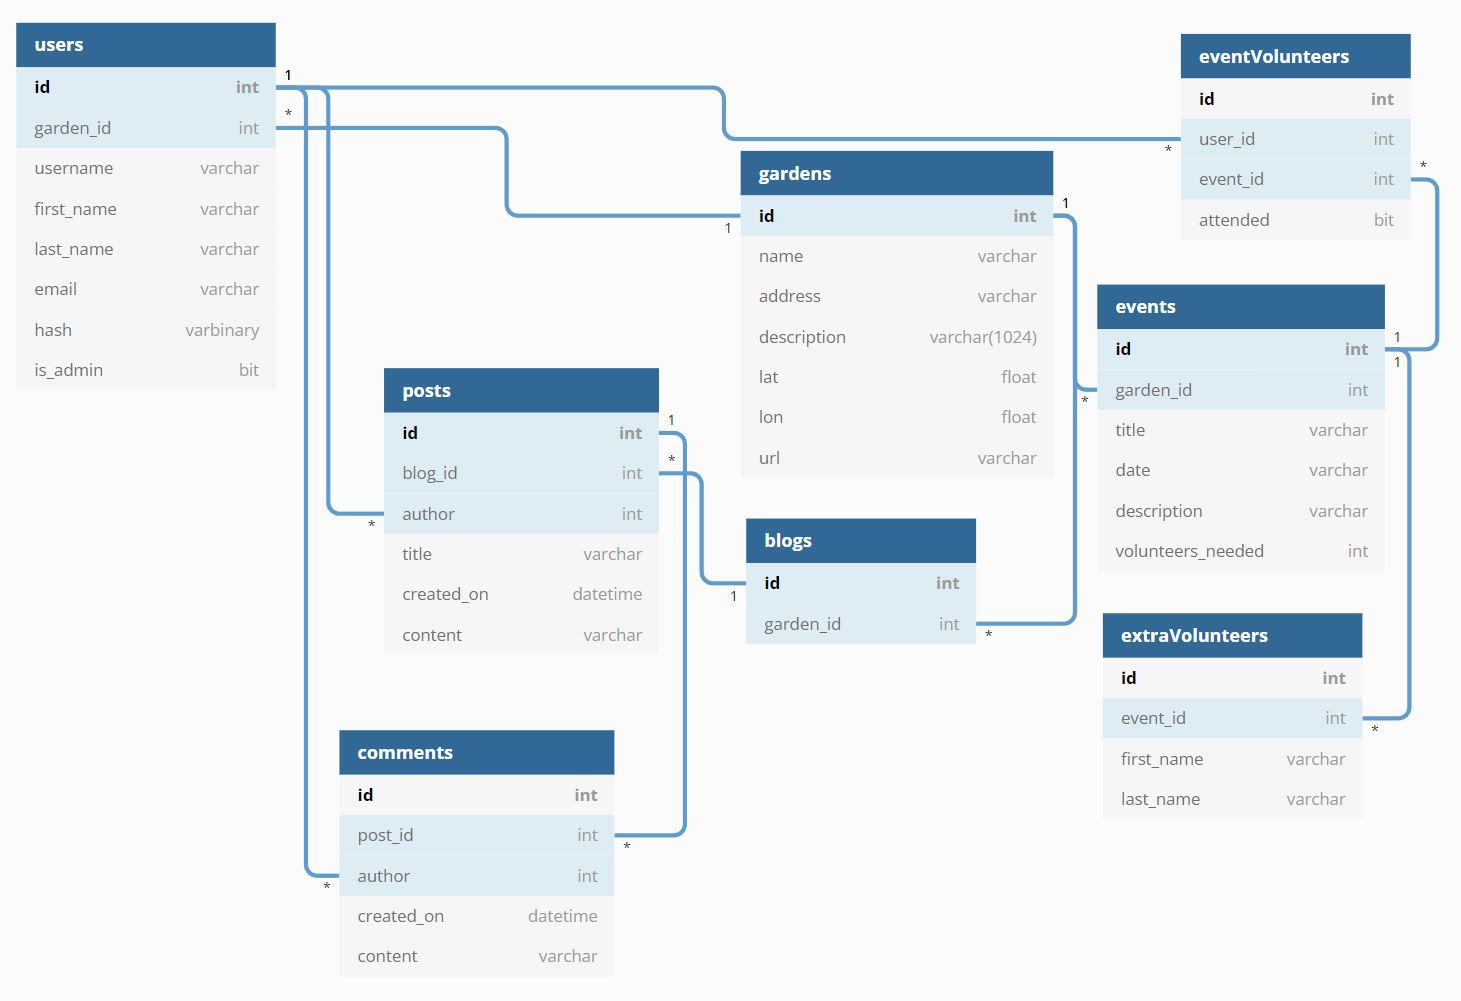
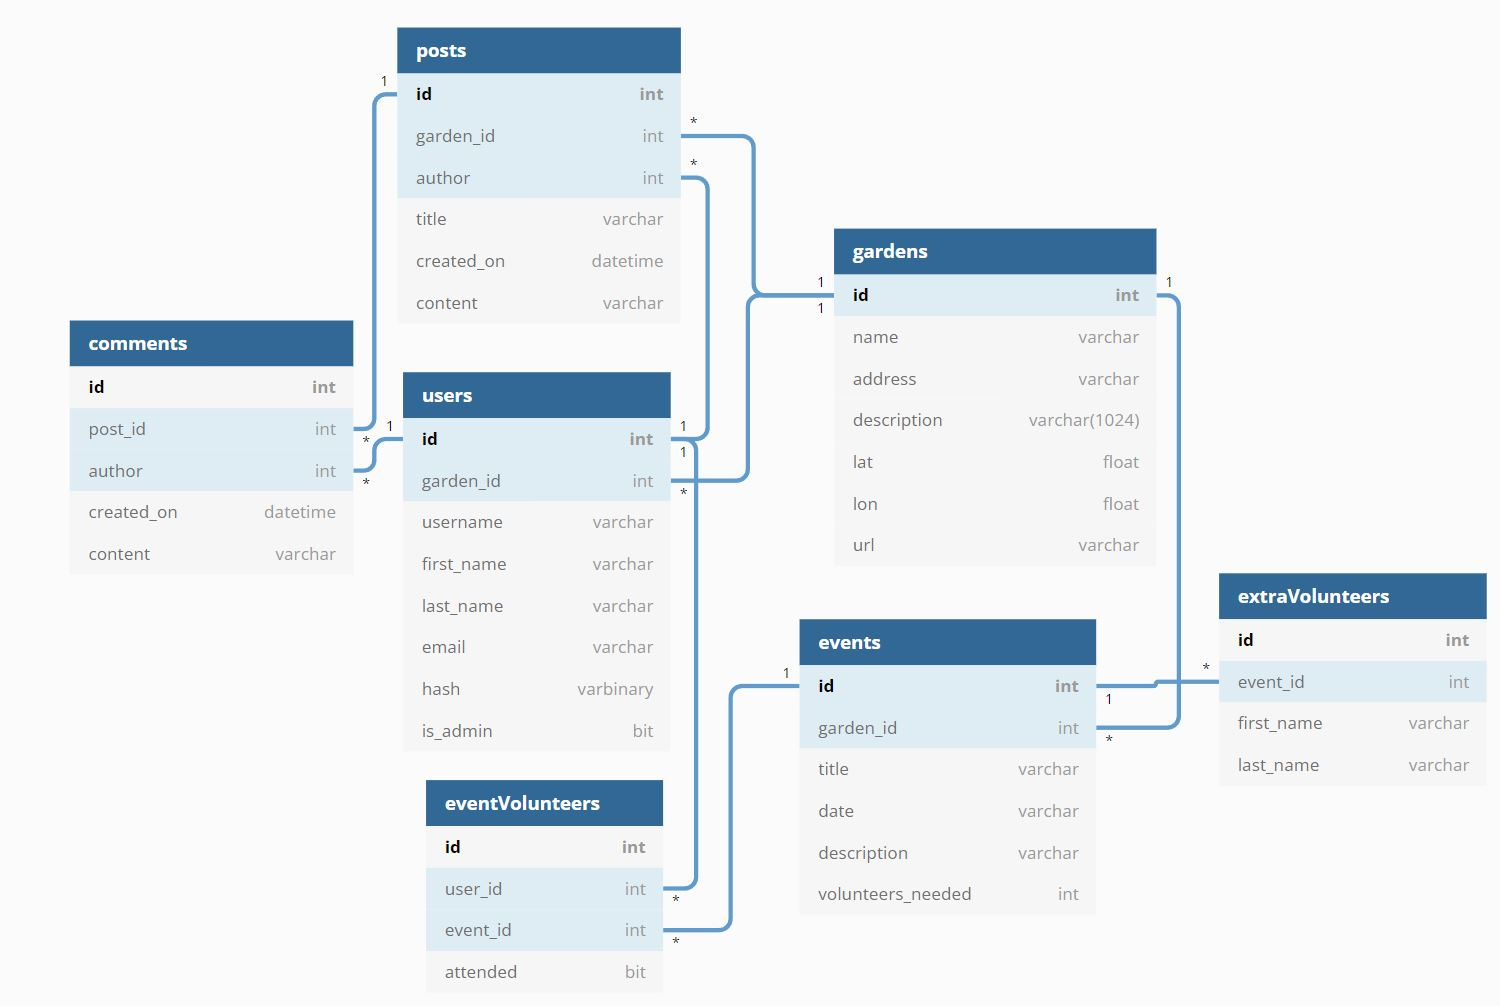
Delete the blogs table and refine db to just two additional tables for blog implementation

diff --git a/server/db/migrations/20211129010809_posts.js b/server/db/migrations/20211129010809_posts.js
@@ -1,7 +1,7 @@
 exports.up = function (knex) {
   return knex.schema.createTable('posts', table => {
     table.increments('id').primary()
-    table.integer('blog_id').references('blogs.id')
+    table.integer('garden_id').references('gardens.id')
     table.integer('author').references('users.id')
     table.string('title')
     table.datetime('created_on')

diff --git a/server/db/README.md b/server/db/README.md
@@ -6,7 +6,7 @@
 
 Updated code for ERD:
 ```
-// Creating tables
+ // Creating tables
 Table users  {
   id int [pk, increment] // auto-increment
   garden_id int
@@ -28,14 +28,9 @@ Table gardens {
   url varchar
 }
 
-Table blogs {
-  id int [pk]
-  garden_id int
-}
-
 Table posts {
   id int [pk]
-  blog_id int
+  garden_id int
   author int
   title varchar
   created_on datetime
@@ -78,11 +73,10 @@ Table extraVolunteers {
 // > many-to-one; < one-to-many; - one-to-one
 Ref: users.garden_id > gardens.id
 Ref: events.garden_id > gardens.id
-Ref: blogs.garden_id > gardens.id
 Ref: eventVolunteers.user_id > users.id
 Ref: eventVolunteers.event_id > events.id
 Ref: extraVolunteers.event_id > events.id
-Ref: posts.blog_id > blogs.id
+Ref: posts.garden_id > gardens.id
 Ref: comments.post_id > posts.id
 Ref: comments.author > users.id
 Ref: posts.author > users.id
